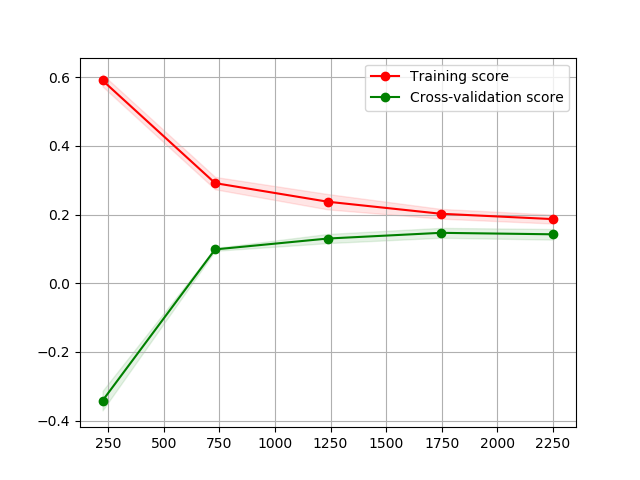
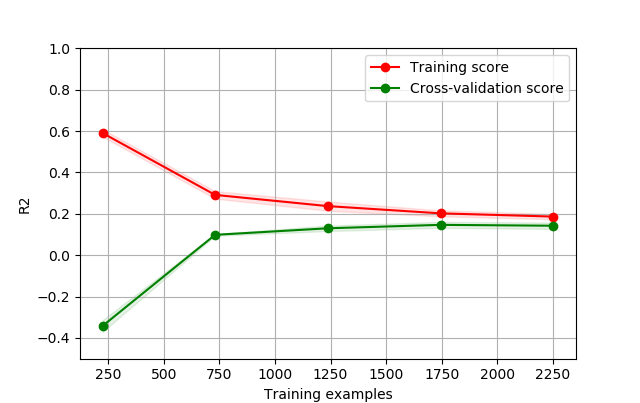
Add grid search for hyperparameters (Lasso alpha)

Changed region(s): [[0.0625, 0.1191, 0.9062, 1.0], [0.0312, 0.4764, 0.125, 0.536], [0.0625, 0.2084, 0.125, 0.2382]]

diff --git a/playground_model1.py b/playground_model1.py
@@ -67,10 +67,42 @@ for p in prefixes:
 
 
 # === MODEL: LINEAR REGRESSION + NORMALIZATION + TFORM Y + LASSO === #
-reg = linear_model.Lasso(alpha=0.0001, normalize=True)
+reg = linear_model.Lasso(normalize=True)
 reg.fit(X, ytform)
 ypred = reg.predict(X)
 
+# === PRINT OUTPUTS === #
+print('\n ** Linear regression + normalization + transform y + LASSO')
+print('Non-zero coefficients:')
+for (c,f) in sorted(zip(reg.coef_, feature_names)):
+    if abs(c) > 0:
+        print('{:+0.2f}\t{}'.format(c, f))
+
+print("RMS error: {:.2f}".format(mean_squared_error(ytform, ypred)**(1/2)))
+print('Training R2 score: {:.2f}'.format(r2_score(ytform, ypred)))
+
+
+# === MODEL: CV GRID SEARCH for hyperparameters === #
+clf = GridSearchCV(reg, 
+             param_grid={'alpha': [1e-6, 5e-6, 1e-5, 5e-5, 1e-4, 5e-4, 1e-3]},
+             scoring=make_scorer(r2_score))
+clf.fit(X, ytform)
+print("Best hyperparameters: {}".format(clf.best_params_))
+print("* Grid scores:")
+means = clf.cv_results_['mean_test_score']
+stds = clf.cv_results_['std_test_score']
+for mean, std, params in zip(means, stds, clf.cv_results_['params']):
+    print("  %0.3f (+/-%0.03f) for %r"
+          % (mean, std * 2, params))
+
+best_alpha = clf.best_params_['alpha']
+
+
+
+# === MODEL: REFIT WITH BEST ALPHA === #
+reg = linear_model.Lasso(alpha=best_alpha, normalize=True)
+reg.fit(X, ytform)
+ypred = reg.predict(X)
 
 # === PRINT OUTPUTS === #
 print('\n ** Linear regression + normalization + transform y + LASSO')
@@ -82,11 +114,6 @@ print("RMS error: {:.2f}".format(mean_squared_error(ytform, ypred)**(1/2)))
 print('Training R2 score: {:.2f}'.format(r2_score(ytform, ypred)))
 
 
-# === MODEL: CV GRID SEARCH === #
-clf = GridSearchCV(reg, 
-             param_grid={'alpha': [1, 1e-1, 1e-2, 1e-3, 1e-4]},
-             scoring=make_scorer(r2_score))
-clf.fit(X, ytform)
 
 # === MODEL: K-FOLD CROSS VALIDATION (i.e. check generalizable) === #
 nfolds = 10
@@ -121,9 +148,9 @@ plt.plot(train_sizes, train_scores_mean, 'o-', color="r",
 plt.plot(train_sizes, test_scores_mean, 'o-', color="g",
          label="Cross-validation score")
 
-plt.gca().invert_yaxis()
 plt.ylabel('R2')
-
+plt.xlabel('Training examples')
+plt.ylim((-0.5, 1))
 plt.legend(loc="best")
 plt.show()
 
